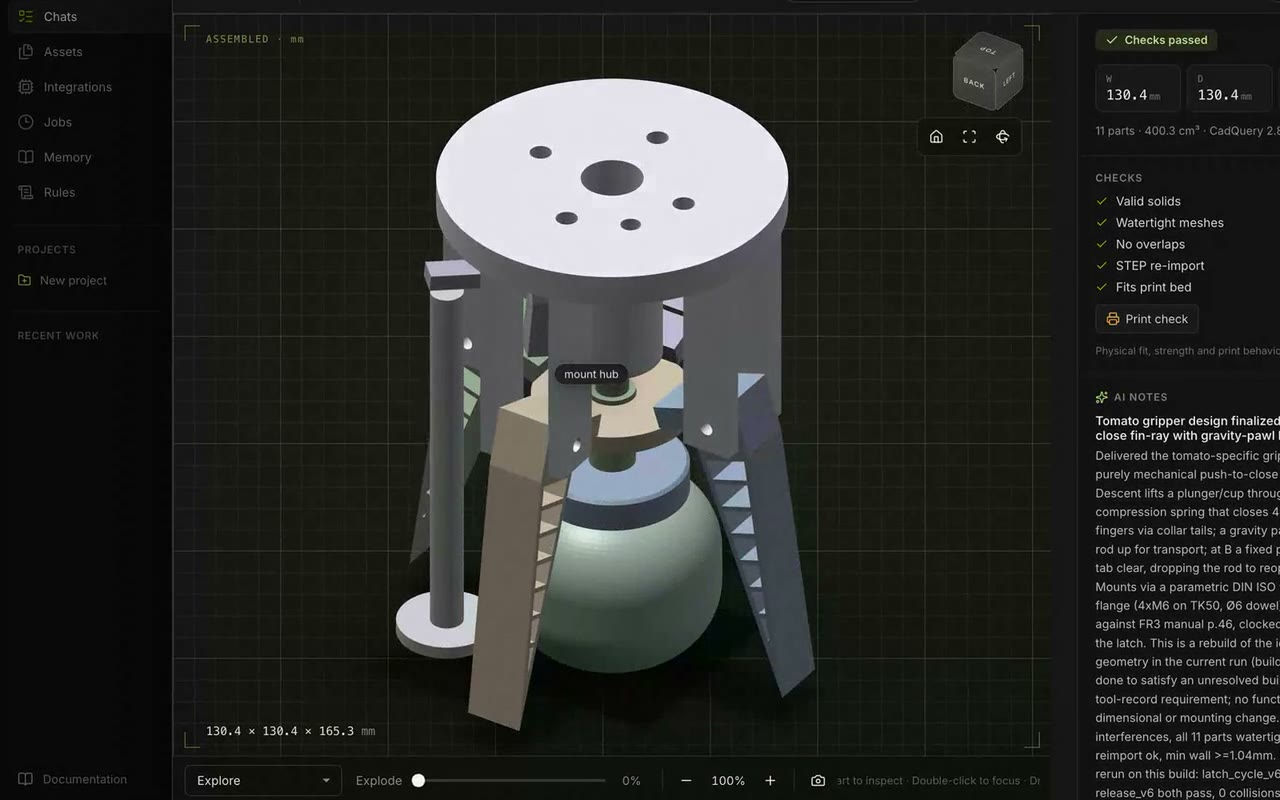
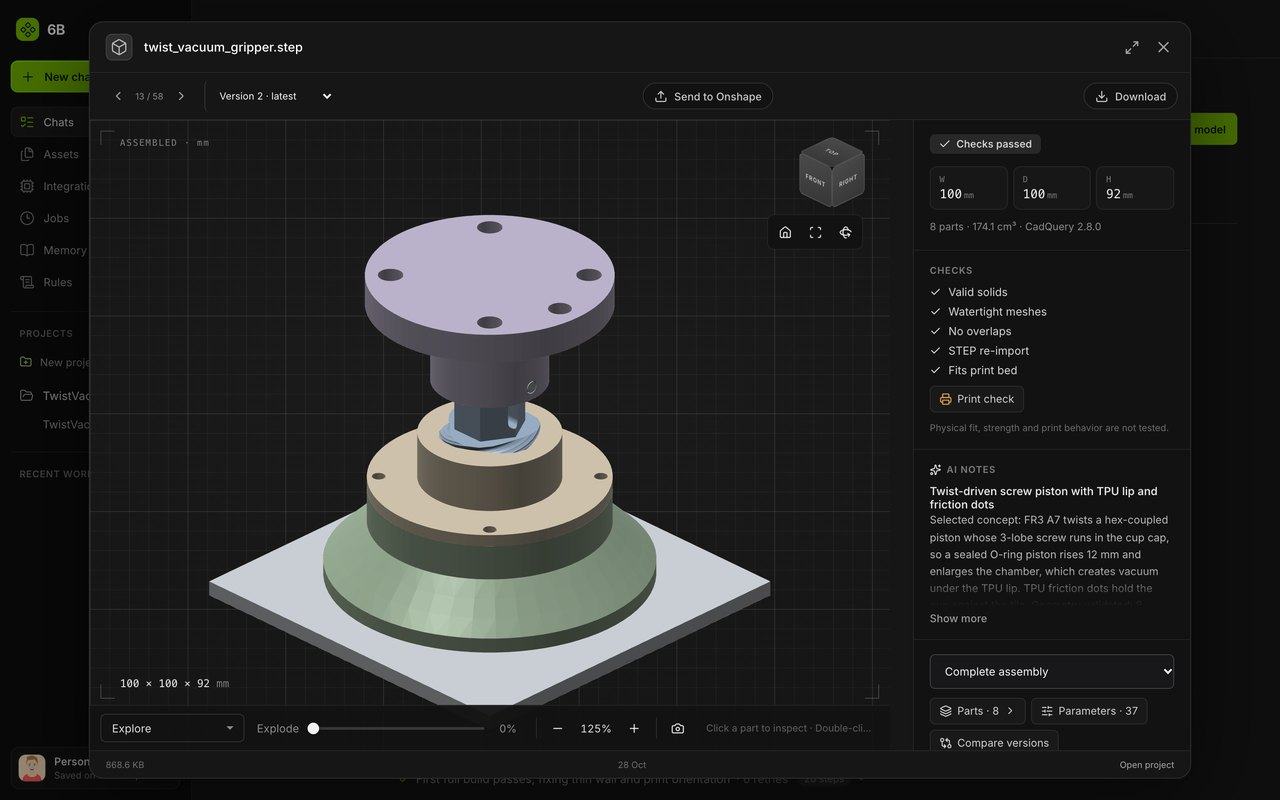
Show the flat-tile twist-to-suction gripper in the READMEs
The studio GIF now follows the gripper from the "Passive twist-to-suction
gripper for Franka FR3 (flat plastic tile)" chat: assembled, exploded, the
twist-suction motion study, the assembly sequence, then its parts in Assets.
It is 960 px wide and 1.4 MB, down from 3.7 MB.

studio.jpg shows the same gripper in the viewer, and a new assets.jpg shows
its parts as 3D thumbnails. Both are taken from the current UI.

The root README captions how the gripper works and adds rules to the feature
list. The frontend README describes the minimal design, the Dark / Light /
System setting and theme.css, and lists the Rules files.

diff --git a/frontend/README.md b/frontend/README.md
@@ -4,15 +4,20 @@ The 6B workspace in the browser: chats that stream a model's work as it happens,
 studio for checking and adjusting designs, and pages for files, integrations, rules and memory.
 It's built with React 19 and Vite.
 
-<img src="../media/6b-studio.gif" alt="The 3D studio: assembled, exploded and pick-and-place views, then the Integrations page" width="860">
+<img src="../media/6b-studio.gif" alt="The 3D studio with the flat-tile twist-to-suction gripper: assembled, exploded, its twist-suction motion study and assembly sequence, then its parts in Assets" width="860">
+
+<sub>The twist-to-suction gripper for the Franka FR3 from one chat: explode, the motion study, the
+assembly sequence, then its parts in Assets.</sub>
 
 <table>
   <tr>
-    <td width="50%"><img src="../media/studio.jpg" alt="3D studio with checks and AI notes beside the model"></td>
-    <td width="50%"><img src="../media/integrations.jpg" alt="Integrations: Claude Code, OpenAI, Onshape, Isaac Sim, Bambu Studio"></td>
+    <td width="33%"><img src="../media/studio.jpg" alt="The gripper assembled in the 3D studio, with checks and AI notes beside it"></td>
+    <td width="33%"><img src="../media/assets.jpg" alt="Assets: the gripper's parts as 3D thumbnails"></td>
+    <td width="33%"><img src="../media/integrations.jpg" alt="Integrations: Claude Code, OpenAI, Onshape, Isaac Sim, Bambu Studio"></td>
   </tr>
   <tr>
     <td align="center"><sub>Studio: checks, measurements, explode, AI notes</sub></td>
+    <td align="center"><sub>Assets: every part and file, previewed</sub></td>
     <td align="center"><sub>Integrations: models, CAD, simulation, printing</sub></td>
   </tr>
 </table>
@@ -41,9 +46,10 @@ Open the URL Vite prints. `/api` and `/openapi.json` proxy to `127.0.0.1:8765`
 
 | Path | What it is |
 |---|---|
-| `src/App.jsx` | Shell: routing, sidebar, sign-in, capabilities, modals |
+| `src/App.jsx` | Shell: routing, sidebar, sign-in, capabilities, modals, workspace settings |
 | `src/TaskPage.jsx`, `src/AgentTrace.jsx` | A chat: live trace, questions, plan approvals, follow-ups |
-| `src/ui.jsx` | Shared pieces, including the composer |
+| `src/RulesPage.jsx`, `src/TaskRules.jsx` | Rules: quick add, search, set switches; a chat's rule checks |
+| `src/ui.jsx` | Shared pieces: the composer, "Show more" text, the "⋯" menu |
 | `src/ModelPicker.jsx` | Model choice and the reasoning-effort slider panel |
 | `src/ArtifactPreview.jsx`, `src/AssemblyStudio.jsx`, `viewer.js` | File previews and the WebGL assembly studio |
 | `src/ParameterPanel.jsx`, `src/VersionCompare.jsx` | Design sliders and version diffs |
@@ -53,7 +59,8 @@ Open the URL Vite prints. `/api` and `/openapi.json` proxy to `127.0.0.1:8765`
 | `src/lib.js` | API client, browser-held connections, formatting helpers |
 | `src/auth.js` | Google sign-in through Firebase, loaded only when the server enables it |
 | `docs.html`, `docs.js` | The `/docs` API reference, generated from OpenAPI |
-| `styles.css`, `workspace.css`, `studio.css`, … | Theme tokens and layouts |
+| `theme.css`, `src/appearance.js` | Colour tokens for dark and light, and the Dark / Light / System setting |
+| `styles.css`, `workspace.css`, `studio.css`, … | Layouts and components |
 
 ## How it talks to the backend
 
@@ -67,9 +74,15 @@ Open the URL Vite prints. `/api` and `/openapi.json` proxy to `127.0.0.1:8765`
 
 ## Design
 
-A charcoal-and-green theme in the style of NVIDIA Brev, with a sidebar-and-workspace layout.
-Color tokens live in `styles.css`. Sidebar, collection and responsive layouts live in
-`workspace.css`. Motion respects `prefers-reduced-motion`.
+Minimal and quiet: neutral surfaces, with the brand green kept for small marks that mean on,
+done or here (switches, passed checks, the active tab, the main button). Red and amber mark
+problems. Plan cards, simulation and 3D stages are black and white, and models sit on a
+pale-black stage (pale grey in light mode). Long text shows a few lines with "Show more", and
+less-used actions wait behind "⋯".
+
+Every colour is a token in `theme.css` with a dark and a light value. Workspace settings picks
+Dark (the default), Light or System, saved per browser. Use a token, or add one with both
+values, rather than a bare colour. Motion respects `prefers-reduced-motion`.
 
 ## Deploy
 

diff --git a/README.md b/README.md
@@ -49,6 +49,9 @@ printed on a Bambu Lab printer and mounted on a Franka FR3 arm.
   values with sliders. Each slider rebuild is a new validated version and needs no model call.
 - **Questions and approvals.** 6B asks one to three questions when a choice matters, and shows a
   plan before it changes an existing design.
+- **Rules you set.** General rules apply to every chat. Rule sets, such as FDM 3D printing or a
+  hackathon brief, can be switched on or off for each chat. Each design is checked rule by rule,
+  and the chat shows which checks passed.
 - **Evidence on record.** Decisions name their basis, such as a fetched datasheet page, a
   measurement or your answer. Files are versioned and hashed.
 - **Real tools.** Import from and send to Onshape, slice in Bambu Studio, plan pick-and-place, and
@@ -57,7 +60,12 @@ printed on a Bambu Lab printer and mounted on a Franka FR3 arm.
   GPT-6.1 Sol or Terra), with a reasoning-effort slider. An offline workshop mode needs no model.
 
 <p align="center">
-  <img src="media/6b-studio.gif" alt="The 3D studio: assembled, exploded and pick-and-place views of the gripper, then Integrations" width="860">
+  <img src="media/6b-studio.gif" alt="The 3D studio with the flat-tile twist-to-suction gripper: assembled, exploded, its twist-suction motion study and assembly sequence, then its parts in Assets" width="860">
+  <br>
+  <sub><b>Twist-to-suction gripper for a flat tile</b>, designed in one chat. The FR3 presses
+  12 TPU friction dots and a sealing ring onto the tile, then twists its flange about 288°. A
+  screw lifts a sealed piston 12 mm and the chamber pulls a vacuum. 8 printable parts, checked
+  for overlaps and print-bed fit.</sub>
 </p>
 
 ## Quick start
